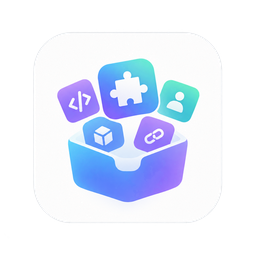
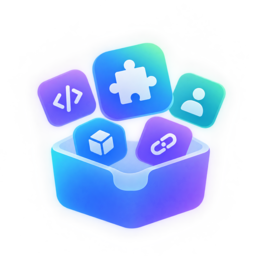
fix(branding): show the localized brand title on the Installed card
The Installed card showed the npm package name where every other plugin shows
what a person calls it, so the row read as a build artifact and the documented
entry did not match the screen. Both exported locale resources now carry
meta.title, which the host prefers over the package name, and the icon is
re-rendered to the current brand mark.

diff --git a/tests/package-branding.test.ts b/tests/package-branding.test.ts
@@ -6,17 +6,17 @@ import { en, zh } from '../packages/market-ui/src/locales.js'
 const labels = (language: 'zh' | 'en'): typeof zh | typeof en => (language === 'zh' ? zh : en)
 
 describe('published Agent Plugins branding', () => {
-  it('exports description-only metadata so the row shows one identity', async () => {
+  it('exports the localized brand title so the Installed card reads as the product names it', async () => {
     const manifest = JSON.parse(await readFile(new URL('../package.json', import.meta.url), 'utf8')) as { name: string; files: string[]; icon: string }
     expect(manifest.name).toBe('dsh-agent-plugins-market')
     expect(manifest.files).toContain('locale')
     expect(manifest.files).toContain('assets/dsh-agent-plugins.png')
-    // No localized title: the host falls back to the package name, so the
-    // component row never shows a brand name beside two technical ids.
+    // The host renders meta.title as the card title; the npm name stays on the
+    // package page, so the technical identity keeps exactly one home.
     for (const language of ['zh', 'en'] as const) {
       const resource = import.meta.resolve(`dsh-agent-plugins-market/locale/${language}.json`)
-      const { meta } = JSON.parse(await readFile(fileURLToPath(resource), 'utf8')) as { meta: { title?: string; description: string } }
-      expect(meta.title).toBeUndefined()
+      const { meta } = JSON.parse(await readFile(fileURLToPath(resource), 'utf8')) as { meta: { title: string; description: string } }
+      expect(meta.title).toBe(labels(language).nav)
       expect(meta.description).toBe(labels(language).marketCardDesc)
     }
   })

diff --git a/.agents/notes/implemented/bug-fix/2026-10-09-installed-card-brand-title.md b/.agents/notes/implemented/bug-fix/2026-10-09-installed-card-brand-title.md
@@ -1,0 +1,35 @@
+# Agent Note: The Installed card shows the localized brand title
+
+Status: implemented
+
+## Problem
+
+The Installed card showed the npm package name `dsh-agent-plugins-market` where every other plugin shows what a person calls it. The card is the first thing a reader sees in the Plugins page, so the row read as a build artifact rather than as the product, and the documented entry (`Plugins → Installed → Agent Plugins`) did not match the screen.
+
+## Decision
+
+Both exported locale resources carry `meta.title`: `Agent Plugins` in `locale/en.json` and `Agent 扩展` in `locale/zh.json`. The published host renders a package card as `meta.title` when it is present and falls back to the package name when it is absent, so the Installed card now reads as the product and follows the interface language.
+
+The technical identity keeps exactly one home: the package page below the card still prints `dsh-agent-plugins-market` in the `data-plugin-name` line, and the row id and module name of the bundle's own row remain untouched. The card title, the enable switch label, the open-detail label, and the uninstall confirmation all follow the same localized title.
+
+This reverses the `meta.title` removal in [localized Agent Plugins branding and bundle settings](../feature/2026-10-04-agent-plugins-branding.md). Everything else in that note stands: the icon asset, the `plugins.bundle.config` binding, the description resources, and the npm identity.
+
+## Alternatives considered
+
+**Keep the description-only metadata.** This was the previous state. Its rationale was that the host renders a row as its title plus any technical id that differs from it, so a brand title produced two id lines. That reasoning applies to the bundle's _rows_ under the package, not to the package card itself, and it left the card showing a package name. Reinstating the title fixes the card; the row list keeps its own ids.
+
+**Shorten the package name in `package.json`.** The published name is the install identity and the settings namespace. Renaming it breaks existing profiles, the patch file, and the settings keys.
+
+**Rename the row id in `cordis.patch.yml`.** The row id is the configuration key (`<package>#<rowId>`) and the profile override address. Changing it would strand every saved setting for no visible gain, because the card title does not read the row id.
+
+## Consequences
+
+- The Installed card, its switch labels, and the uninstall confirmation read `Agent 扩展` or `Agent Plugins` according to the interface language. Both languages are pinned by `tests/package-branding.test.ts`.
+- The package page keeps printing the npm name, so the card and the page together show the brand and the technical identity exactly once each.
+- No runtime dependency, settings store, or profile change is introduced. The host reads the packaged locale resources without evaluating plugin code, so the title is available even while the plugin is disabled.
+- The bundle's own row on the package page prints its technical ids again. The row id and the module name are both `dsh-agent-plugins-market`, and the host prints each one that differs from the title, so that row shows the string twice under the brand title. Changing the row id would avoid it, but the row id is the configuration key (`<package>#<rowId>`) and the profile override address, so a rename would strand saved settings. The duplicate line is the accepted cost of the brand title.
+- A reader who searches the Plugins page for the npm name still finds the package: the card's own page carries it in the row list.
+
+## Testing
+
+`tests/package-branding.test.ts` asserts `meta.title` equals the localized `nav` label and `meta.description` equals `marketCardDesc` for both languages. The installed host validator was run against the desktop profile and returned `{"en":"Agent Plugins","zh":"Agent 扩展"}` with no metadata error.

diff --git a/.agents/notes/implemented/feature/2026-10-04-agent-plugins-branding.md b/.agents/notes/implemented/feature/2026-10-04-agent-plugins-branding.md
@@ -8,7 +8,7 @@ The package needs a user-facing name and icon distinct from its technical npm id
 
 ## Decision
 
-The npm identity stays dsh-agent-plugins-market. The exported locale resources carry meta.description but no meta.title: the host falls back to the package name, so a component row shows the identity exactly once instead of a brand name beside two technical ids. The brand name stays on our own surfaces — the workspace tabs, the settings section label, and the READMEs. package.json points icon to the bundled 256px PNG, a transparent, scaled copy of the supplied artwork below the host's 256 KiB limit. The package files list includes both locale resources and the image.
+The npm identity stays dsh-agent-plugins-market. The brand name stays on our own surfaces — the workspace tabs, the settings section label, and the READMEs. The exported locale resources now also carry meta.title, so the Installed card reads as the product; [the Installed card note](../bug-fix/2026-10-09-installed-card-brand-title.md) owns that reversal, which drops the description-only rule this note originally recorded. package.json points icon to the bundled 256px PNG, a transparent, scaled copy of the supplied artwork below the host's 256 KiB limit. The package files list includes both locale resources and the image.
 
 The existing SettingsForm binding registers at plugins.bundle.config, keyed by the npm package name, rather than plugins.item. Configuration appears inside the installed bundle page. The settings workspace remains accessible under its localized brand name; label thunks and the host locale renderer update it without re-registration. Namespace, persistence keys, save/discard behavior, and technical identifiers remain unchanged.
 
@@ -20,8 +20,8 @@ This partially supersedes the placement described in [settings and card reuse](.
 
 **Keep a standalone plugins.item card.** The published slot contract reserves that list for official settings entries. The keyed bundle slot provides the same form inside the installed package's own page.
 
-**Embed the full-resolution image.** The supplied PNG exceeds the host icon limit. Resizing the same artwork preserves transparency and reduces the asset to 46,744 bytes without changing the design.
+**Embed the full-resolution image.** The supplied PNG exceeds the host icon limit. Resizing the same artwork preserves transparency and keeps the asset below that limit without changing the design.
 
 ## Consequences
 
-No new runtime dependency or settings store is introduced. Metadata remains available when the plugin is disabled because the host reads packaged resources. Tests pin the exported descriptions, the absent titles, image dimensions and size, technical identity, slot ownership, and binding disposal. An isolated DSH profile verified the installed category, image loading, embedded settings, and live Chinese-to-English settings changes.
+No new runtime dependency or settings store is introduced. Metadata remains available when the plugin is disabled because the host reads packaged resources. The card shows the localized title; see [the Installed card note](../bug-fix/2026-10-09-installed-card-brand-title.md) for that reversal and for the duplicate id line it costs on the bundle's own row. Tests pin the exported descriptions, the localized titles, image dimensions and size, technical identity, slot ownership, and binding disposal. An isolated DSH profile verified the installed category, image loading, embedded settings, and live Chinese-to-English settings changes.

diff --git a/.agents/notes/implemented/bug-fix/2026-10-09-installed-card-brand-title.zh.md b/.agents/notes/implemented/bug-fix/2026-10-09-installed-card-brand-title.zh.md
@@ -1,0 +1,35 @@
+# Agent Note: 已安装卡片显示本地化品牌名
+
+Status: implemented
+
+## Problem
+
+已安装卡片在每个人都能看到插件名的地方显示 npm 包名 `dsh-agent-plugins-market`。卡片是插件页里读者第一眼看到的内容，因此这一行读起来像构建产物而不是产品，文档写的入口（`插件 → 已安装 → Agent 扩展`）也与屏幕不一致。
+
+## Decision
+
+两个导出的语言资源都携带 `meta.title`：`locale/en.json` 为 `Agent Plugins`，`locale/zh.json` 为 `Agent 扩展`。已发布宿主渲染包卡片时优先取 `meta.title`，缺失才回退到包名，因此已安装卡片现在显示产品名，并跟随界面语言。
+
+技术标识仍只保留一处：卡片下方的包详情页继续在 `data-plugin-name` 行打印 `dsh-agent-plugins-market`，该 bundle 自身行的行 id 与模块名不变。卡片标题、启停开关标签、打开详情标签与卸载确认都使用同一个本地化标题。
+
+本决策反转[Agent 扩展双语品牌与插件内设置](../feature/2026-10-04-agent-plugins-branding.zh.md)中移除 `meta.title` 的决定。该笔记的其余内容仍然有效：图标资源、`plugins.bundle.config` 绑定、介绍资源与 npm 标识。
+
+## Alternatives considered
+
+**保持只有介绍的元信息。** 这是此前的状态。其理由是宿主把行渲染为标题加上任何与之不同的技术 id，因此品牌标题会产生两行 id。那条理由适用于包下面的*行*列表，不适用于包卡片本身，而它让卡片显示了包名。恢复标题修好了卡片；行列表仍保留自己的 id。
+
+**在 `package.json` 里缩短包名。** 已发布的名称就是安装标识与设置命名空间。改名会破坏已有 profile、patch 文件与设置键。
+
+**改 `cordis.patch.yml` 里的行 id。** 行 id 是配置键（`<包名>#<行 id>`）与 profile 覆盖地址。改它会让所有已保存设置失联，而卡片标题并不读行 id，因此没有任何可见收益。
+
+## Consequences
+
+- 已安装卡片、其开关标签与卸载确认按界面语言显示 `Agent 扩展` 或 `Agent Plugins`。两种语言都由 `tests/package-branding.test.ts` 固定。
+- 包详情页继续打印 npm 包名，因此卡片与详情页各显示一次品牌名与技术标识。
+- 不引入运行时依赖、设置存储或 profile 改动。宿主在不执行插件代码的情况下读取随包语言资源，因此插件停用时标题仍可用。
+- 包详情页里 bundle 自身那一行会重新打印技术标识。行 id 与模块名都是 `dsh-agent-plugins-market`，而宿主会打印每一个与标题不同的值，因此该行在品牌标题下方把这串名字显示两次。改行 id 可以避免，但行 id 就是配置键（`<包名>#<行 id>`）与 profile 覆盖地址，改名会让已保存设置失联。这一行重复是品牌标题被接受的代价。
+- 在插件页搜索 npm 包名的读者仍能找到该包：卡片自己的页面在行列表里带有它。
+
+## Testing
+
+`tests/package-branding.test.ts` 断言两种语言的 `meta.title` 等于本地化 `nav` 标签，`meta.description` 等于 `marketCardDesc`。已用桌面 profile 运行安装版宿主校验器，返回 `{"en":"Agent Plugins","zh":"Agent 扩展"}` 且没有元信息错误。

diff --git a/.agents/notes/implemented/feature/2026-10-04-agent-plugins-branding.zh.md b/.agents/notes/implemented/feature/2026-10-04-agent-plugins-branding.zh.md
@@ -8,7 +8,7 @@ Status: implemented
 
 ## Decision
 
-npm 标识保持 dsh-agent-plugins-market。导出的语言资源只携带 meta.description，不含 meta.title：宿主在标题缺失时回退到包名，组件行因此只显示一次身份，而不是品牌名旁边并列两行技术名。品牌名保留在我们自己的界面上——工作区页签、设置分区标签与 README。package.json 的 icon 指向随包发布的 256px PNG：它由用户提供的图案等比缩放，保留透明背景，并低于宿主 256 KiB 限制。发布文件列表包含双语资源与图片。
+npm 标识保持 dsh-agent-plugins-market。品牌名保留在我们自己的界面上——工作区页签、设置分区标签与 README。导出的语言资源现在也携带 meta.title，因此已安装卡片显示产品名；[已安装卡片笔记](../bug-fix/2026-10-09-installed-card-brand-title.zh.md)持有这次反转，它去掉了本笔记最初记录的「只带介绍」规则。package.json 的 icon 指向随包发布的 256px PNG：它由用户提供的图案等比缩放，保留透明背景，并低于宿主 256 KiB 限制。发布文件列表包含双语资源与图片。
 
 既有 SettingsForm 绑定注册到 plugins.bundle.config，以 npm 包名为 key，不再注册 plugins.item。配置显示在已安装插件的详情页内。设置工作区仍可通过本地化品牌名称进入；标签 thunk 与宿主语言渲染器无需重新注册即可更新。命名空间、持久化键、保存/放弃行为与技术标识保持不变。
 
@@ -20,8 +20,8 @@ npm 标识保持 dsh-agent-plugins-market。导出的语言资源只携带 meta.
 
 **保留独立 plugins.item 卡片。** 已发布槽契约将该列表保留给官方设置条目。按包名分派的 bundle 槽可把相同表单放到已安装插件自身页面。
 
-**嵌入原始分辨率图片。** 用户提供的 PNG 超过宿主图标大小限制。缩放原图保留透明度，将体积降到 46,744 字节而不改变设计。
+**嵌入原始分辨率图片。** 用户提供的 PNG 超过宿主图标大小限制。缩放原图保留透明度，使体积低于该限制，且不改变设计。
 
 ## Consequences
 
-没有新增运行时依赖或设置存储。宿主读取随包资源，因此插件停用时元信息仍可显示。测试固定语言资源的描述导出、标题缺失、图片尺寸与大小、技术标识、槽归属及绑定清理。独立 DSH profile 已验证已安装分类、图片加载、内嵌设置，以及中文切换英文时介绍和设置文案即时更新。
+没有新增运行时依赖或设置存储。宿主读取随包资源，因此插件停用时元信息仍可显示。卡片显示本地化标题；这次反转及其在 bundle 自身行上带来的重复 id 行由[已安装卡片笔记](../bug-fix/2026-10-09-installed-card-brand-title.zh.md)持有。测试固定语言资源的描述导出、本地化标题、图片尺寸与大小、技术标识、槽归属及绑定清理。独立 DSH profile 已验证已安装分类、图片加载、内嵌设置，以及中文切换英文时介绍和设置文案即时更新。
